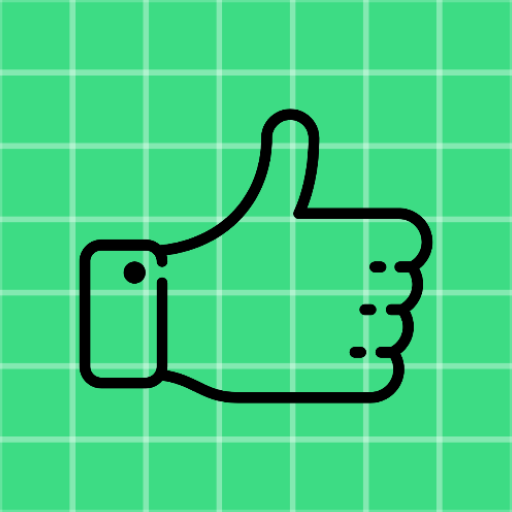
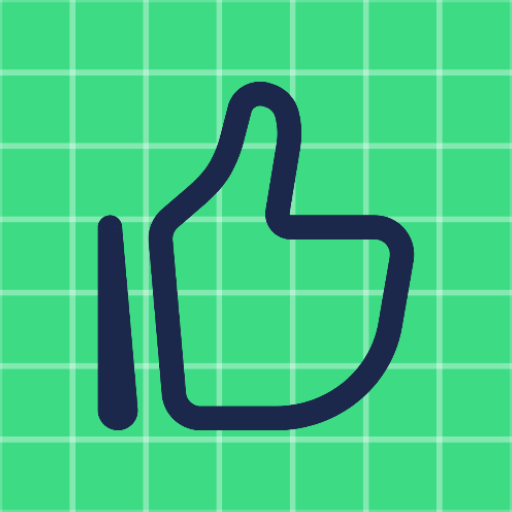
change logic to handle likes

Changed region(s): [[0.1562, 0.1562, 0.8438, 0.8438]]

diff --git a/app/src/main/java/com/example/unisphere/ui/home/HomeFragment.java b/app/src/main/java/com/example/unisphere/ui/home/HomeFragment.java
@@ -54,20 +54,21 @@ public class HomeFragment extends Fragment {
         super.onCreate(savedInstanceState);
         postList = new ArrayList<>();
         // TODO FETCH FROM API LATER
-        postList.add(Post.builder().description("Lorem Ipsum")
+        postList.add(Post.builder().description("Lorem Ipsum is simply dummy text of the printing and typesetting industry. Lorem Ipsum has been the industry's standard dummy text ever since the 1500s, when an unknown printer took a galley of type and scrambled it to make a type specimen book")
                 .comments(Arrays.asList(Comment.builder().text("nice post").userId("tst1@g.com").build(), Comment.builder().text("great location").userId("tst2@g.com").build()))
-                .likes(34L)
+                .likedByUserIds(new ArrayList<>(Arrays.asList("tst1","tst1","tst1","tst1","tst1")))
                 .userId("test@northeastern.edu")
                 .imageUrl("https://fastly.picsum.photos/id/1050/200/300.jpg?hmac=mMZp1DAD5EpHCZh-YBwfvrg5w327V3DoJQ8CmRAKF70").build());
-        postList.add(Post.builder().description("Another post")
+        postList.add(Post.builder().description("It has survived not only five centuries, but also the leap into electronic typesetting, remaining essentially unchanged. It was popularised in the 1960s with the release of Letraset sheets containing Lorem Ipsum passages, and more recently with desktop publishing software like Aldus PageMaker including versions of Lorem Ipsum.")
                 .comments(Arrays.asList(Comment.builder().text("Awesome!").userId("user1@example.com").build(), Comment.builder().text("Love it!").userId("user2@example.com").build()))
-                .likes(20L)
+                .likedByUserIds(new ArrayList<>(Arrays.asList("tst1","tst1","tst1","tst1","tst1","tst1","tst1","tst1","tst1")))
+
                 .userId("test@northeastern.edu")
                 .imageUrl("https://fastly.picsum.photos/id/237/200/300.jpg?hmac=TmmQSbShHz9CdQm0NkEjx1Dyh_Y984R9LpNrpvH2D_U").build());
 
-        postList.add(Post.builder().description("Yet another post")
+        postList.add(Post.builder().description("Contrary to popular belief, Lorem Ipsum is not simply random text. It has roots in a piece of classical Latin literature from 45 BC, making it over 2000 years old. Richard McClintock, a Latin professor at Hampden-Sydney College in Virginia, looked up one of the more obscure Latin words, consectetur, from a Lorem Ipsum passage,")
                 .comments(Arrays.asList(Comment.builder().text("Great job!").userId("user3@example.com").build(), Comment.builder().text("Nice work!").userId("user4@example.com").build()))
-                .likes(15L)
+                .likedByUserIds(new ArrayList<>(Arrays.asList("tst1","tst1","tst1","tst1","tst1","tst1","tst1")))
                 .userId("test@northeastern.edu")
                 .imageUrl("https://fastly.picsum.photos/id/866/200/300.jpg?hmac=rcadCENKh4rD6MAp6V_ma-AyWv641M4iiOpe1RyFHeI").build());
 

diff --git a/app/src/main/java/com/example/unisphere/adapter/PostViewHolder.java b/app/src/main/java/com/example/unisphere/adapter/PostViewHolder.java
@@ -8,6 +8,7 @@ import android.widget.TextView;
 
 import androidx.annotation.NonNull;
 import androidx.cardview.widget.CardView;
+import androidx.core.content.ContextCompat;
 import androidx.recyclerview.widget.RecyclerView;
 
 import com.example.unisphere.R;
@@ -29,6 +30,11 @@ public class PostViewHolder extends RecyclerView.ViewHolder implements View.OnCl
     Context context;
     List<Post> postList;
 
+    ImageView likeIcon;
+
+
+
+
     public PostViewHolder(@NonNull View itemView, Context context, List<Post> postList) {
         super(itemView);
         this.context = context;
@@ -37,12 +43,49 @@ public class PostViewHolder extends RecyclerView.ViewHolder implements View.OnCl
         this.description = itemView.findViewById(R.id.textView_post_description);
         this.likeCount = itemView.findViewById(R.id.like_count);
         this.commentCount = itemView.findViewById(R.id.comment_count);
+        this.likeIcon = itemView.findViewById(R.id.like_icon);
         this.postList = postList;
+        this.description.setTextColor(ContextCompat.getColor(context, android.R.color.black)); // Change text color to black
+
+        likeIcon.setOnClickListener(new View.OnClickListener() {
+            @Override
+            public void onClick(View v) {
+                int position = getAdapterPosition();
+                Post post = postList.get(position);
+                List<String> likedByUserIds = post.getLikedByUserIds();
+
+                // TODO: FETCH USER ID FROM SHARED PREFERENCES
+                String currentUserId = "test@northeastern.edu";
+
+                // Toggle like status
+                if (likedByUserIds.contains(currentUserId)) {
+                    // User already liked the post, remove like
+                    likedByUserIds.remove(currentUserId);
+                } else {
+                    // User has not liked the post, add like
+                    likedByUserIds.add(currentUserId);
+                }
+
+                // Update like count
+                int likes = likedByUserIds.size();
+                likeCount.setText(String.valueOf(likes));
+
+                // Change like button icon based on like status
+                if (likedByUserIds.contains(currentUserId)) {
+                    likeIcon.setImageResource(R.drawable.ic_like_filled_foreground);
+                } else {
+                    likeIcon.setImageResource(R.drawable.ic_like_foreground);
+                }
+
+
+                // TODO: Implement code to update like status in firebase
+            }
+        });
 
     }
 
     @Override
     public void onClick(View v) {
-        // TODO: implement action here
+
     }
 }

diff --git a/app/src/main/java/com/example/unisphere/model/Post.java b/app/src/main/java/com/example/unisphere/model/Post.java
@@ -9,7 +9,17 @@ public class Post {
     private String imageUrl;
     private String description;
     private String userId;
-    private Long likes;
+
+    public List<String> getLikedByUserIds() {
+        return likedByUserIds;
+    }
+
+    public void setLikedByUserIds(List<String> likedByUserIds) {
+        this.likedByUserIds = likedByUserIds;
+    }
+
+    private List<String> likedByUserIds;
+
     private List<Comment> comments;
 
     public String getImageUrl() {
@@ -36,13 +46,6 @@ public class Post {
         this.userId = userId;
     }
 
-    public Long getLikes() {
-        return likes;
-    }
-
-    public void setLikes(Long likes) {
-        this.likes = likes;
-    }
 
     public List<Comment> getComments() {
         return comments;

diff --git a/app/src/main/java/com/example/unisphere/adapter/PostAdapter.java b/app/src/main/java/com/example/unisphere/adapter/PostAdapter.java
@@ -34,7 +34,7 @@ public class PostAdapter extends RecyclerView.Adapter<PostViewHolder> {
     @Override
     public void onBindViewHolder(@NonNull PostViewHolder holder, int position) {
         Post postItem = list.get(position);
-        holder.likeCount.setText(String.valueOf(postItem.getLikes()));
+        holder.likeCount.setText(String.valueOf(postItem.getLikedByUserIds().size()));
         holder.commentCount.setText(String.valueOf(postItem.getComments().size()));
         holder.description.setText(postItem.getDescription());
         Picasso.get().load(postItem.getImageUrl()).into(holder.postImage);
